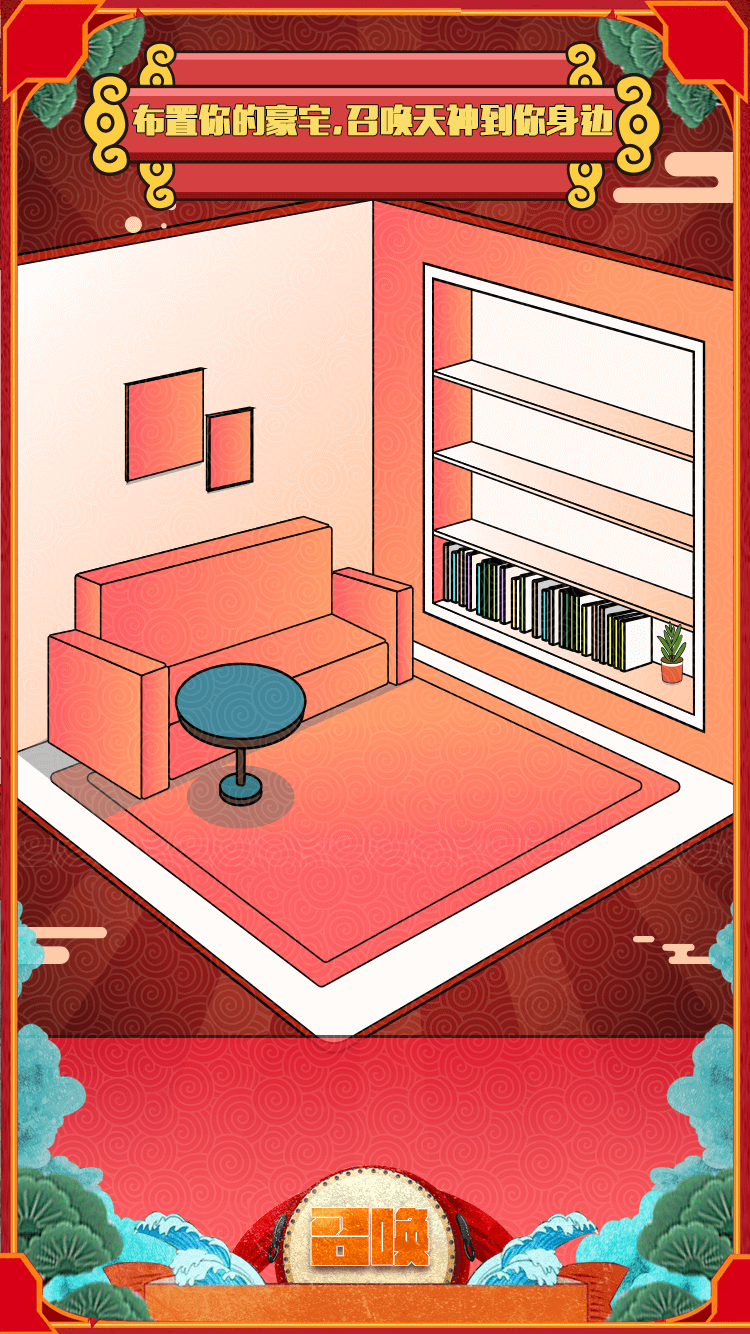
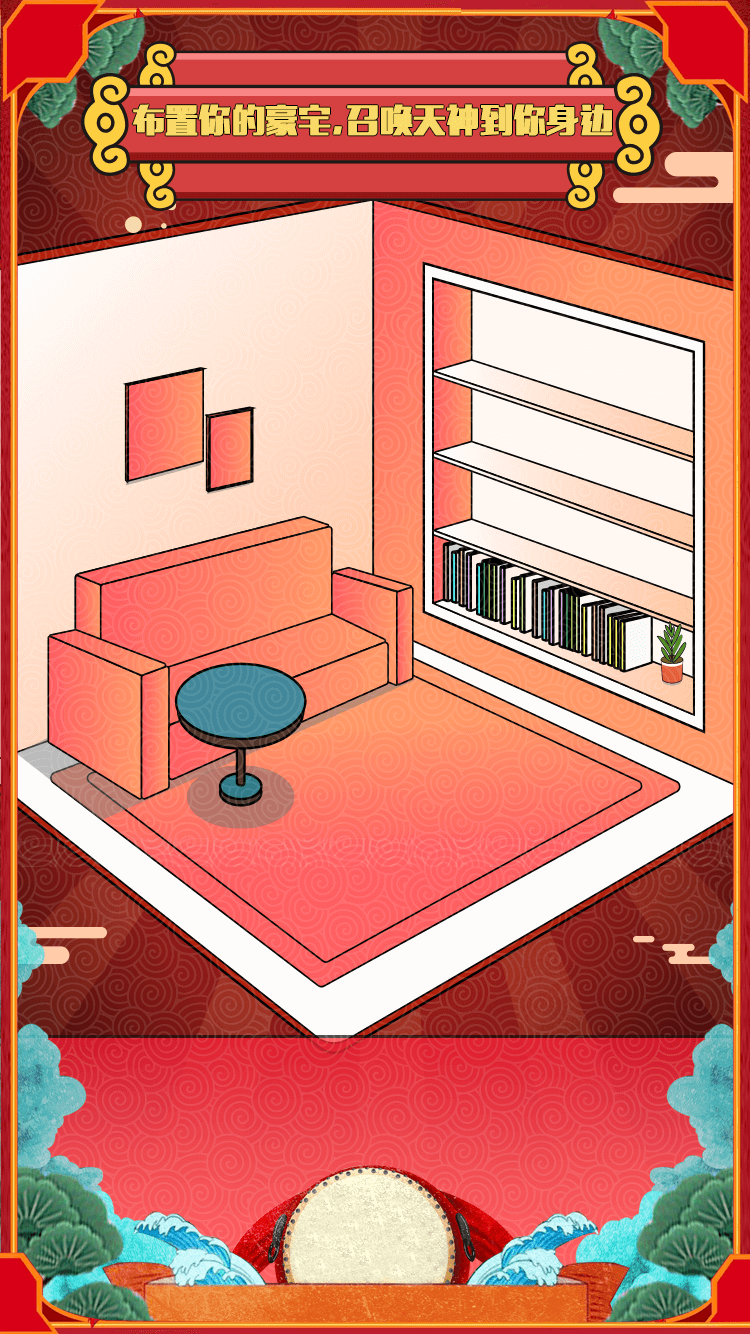
部分摆件定位和召唤按钮等

Changed region(s): [[0.368, 0.8913, 0.6133, 0.9835]]

diff --git a/src/views/Home/Home.jsx b/src/views/Home/Home.jsx
@@ -3,9 +3,11 @@ import { observer } from 'mobx-react'
 
 import './Home.less'
 import * as homebg from '@images/tigergame/home.png'
+import * as submitBtn from '@images/tigergame/submit.png'
 import { types, labels } from '@constants/constants'
 import HomeData from './HomeData'
 import { observable } from 'mobx'
+import Staff from './staff/staff'
 @observer
 class Home extends Component {
   @observable data = new HomeData()
@@ -32,16 +34,19 @@ class Home extends Component {
     const { setDataByKey, updateChoosenLabels, hideLabel } = this.data
     return (
       <div className="home">
+        {/* 背景图 */}
         <img className="bg-img" src={homebg.default} alt=""/>
-        { choosenLabels.air && <img className="fixed-air" src={this.findPic(choosenLabels.air)} alt=""/> }
+        {/* 选中摆件位置 */}
+        { choosenLabels.air && choosenLabels.air !== 'air5' && <img className="fixed-air" src={this.findPic(choosenLabels.air)} alt=""/> }
+        { choosenLabels.air && choosenLabels.air === 'air5' && <img className="fixed-air5" src={this.findPic(choosenLabels.air)} alt=""/> }
         { choosenLabels.pet && <img className="fixed-pet" src={this.findPic(choosenLabels.pet)} alt=""/> }
-        { choosenLabels.staff && <img className="fixed-staff" src={this.findPic(choosenLabels.staff)} alt=""/> }
-        { choosenLabels.plant && <img className="fixed-plant" src={this.findPic(choosenLabels.plant)} alt=""/> }
-        <img src="" alt=""/>
+        { choosenLabels.staff && <Staff url={this.findPic(choosenLabels.staff)}/> }
+        { choosenLabels.plant && choosenLabels.plant !== 'plant5' && <img className="fixed-plant" src={this.findPic(choosenLabels.plant)} alt=""/> }
+        { choosenLabels.plant && choosenLabels.plant === 'plant5' && <img className="fixed-plant5" src={this.findPic(choosenLabels.plant)} alt=""/> }
+        {/* 交互界面 */}
         <div className="main-wrapper">
           <div className="type-wrapper">
-            {
-              types.map(item => {
+            { types.map(item => {
                 return (
                   <div key={item.key} className={item.key === currentType ? 'type-box type-box-checked' : 'type-box'} onClick={() => setDataByKey('currentType', item.key)}>
                     <img className="type-icon" src={item.icon} alt=""/>
@@ -52,18 +57,19 @@ class Home extends Component {
             }
           </div>
           <div className="label-wrapper">
-            {
-              labels[currentType] && labels[currentType].map(item => {
+            { labels[currentType] && labels[currentType].map(item => {
                 return (
                   <div key={item.key} className='label-box' onClick={() => updateChoosenLabels(item.key)}>
                     { hideLabel !== item.key ? <img className="label-icon" src={item.icon} alt=""/> : null }
-                    { hideLabel !== item.key ? <div className="label-dec">{item.name}</div> : <div>选中</div> }
+                    { hideLabel !== item.key ? <div className="label-dec">{item.name}</div> : <div className="checkText">选中</div> }
                   </div>
                 )
               })
             }
           </div>
         </div>
+        {/* 召唤按钮 */}
+        <img className="submit-animation" src={submitBtn} alt=""/>
       </div>
     )
   }

diff --git a/src/views/Home/Home.less b/src/views/Home/Home.less
@@ -13,29 +13,43 @@
     position: absolute;
     top: 27vw;
     left: 9vw;
-    z-index: 999;
+    z-index: 10;
+    width: 30vw;
+  }
+  .fixed-air5 {
+    position: absolute;
+    top: 70vw;
+    left: 45vw;
+    z-index: 10;
     width: 30vw;
   }
   .fixed-pet {
     position: absolute;
     top: 86vw;
-    left: 68vw;
-    z-index: 999;
-    width: 30vw;
+    left: 64vw;
+    z-index: 10;
+    width: 27vw;
   }
   .fixed-staff {
     position: absolute;
     top: 41vw;
     left: 61vw;
-    z-index: 999;
+    z-index: 10;
     width: 10vw;
   }
   .fixed-plant {
     position: absolute;
     top: 82vw;
     left: -3vw;
-    z-index: 999;
+    z-index: 10;
     width: 30vw;
+  }
+  .fixed-plant5 {
+    position: absolute;
+    top: 83vw;
+    left: 24vw;
+    z-index: 10;
+    width: 15vw;
   }
   .main-wrapper {
     position: absolute;
@@ -94,6 +108,9 @@
           color: #fff;
           white-space: nowrap;
         }
+        .checkText {
+          color: #fff; 
+        }
       }
       .label-box-checked {
         background: rgba(255, 124, 52, 0.99);
@@ -101,8 +118,30 @@
       }
     }
   }
+  .submit-animation {
+    position: absolute;
+    top: 161vw;
+    left: 50vw;
+    width: 18vw;
+    margin-left: -10vw;
+    -webkit-animation-play-state: running;
+    animation-play-state: running;
+    -webkit-animation-name: submit;
+    animation-name: submit;
+    -webkit-animation-duration: 0.5s;
+    animation-duration: 0.5s;
+    -webkit-animation-iteration-count: infinite;
+    animation-iteration-count: infinite;
+  }
 }
-
+@keyframes submit {
+  0% {
+    transform: scale(1);
+  }
+  100% {
+    transform: scale(1.1);
+  }
+}
 // iPhone4 && iPhone4s
 @media only screen and (min-device-width: 320px) and (max-device-width: 480px) and (-webkit-min-device-pixel-ratio: 2) {
   .home {

diff --git a/src/untils/untils.js b/src/untils/untils.js
@@ -1,0 +1,28 @@
+const getNoRepeat3 = (len = 13) => {
+  let arrBase =  new Array(len)
+  for(let i = 0; i < len; i++) {
+    arrBase[i] = i
+  }
+  let res = []
+  arrBase.forEach(item1 => {
+    arrBase.forEach(item2 => {
+      arrBase.forEach(item3 => {
+        res.push([item1, item2, item3])
+      })
+    })
+  })
+  return res.filter(item => !(item[0] === item[1] && item[0] === item[2] && item[1] === item[2]))
+}
+
+const getRepeat3 = (len = 13) => {
+  let arrBase =  new Array(len)
+  for(let i = 0; i < len; i++) {
+    arrBase[i] = i
+  }
+  return arrBase.map(item => [item, item, item])
+}
+
+export {
+  getNoRepeat3,
+  getRepeat3
+}

diff --git a/src/views/Home/staff/staff.less b/src/views/Home/staff/staff.less
@@ -1,0 +1,22 @@
+.staffFixed-loop(@n, @i:0) when (@i <= @n) {
+  .staffFixed-@{i} when (@i < 12) {
+    top: 63vw + (@i - 8) * 3vw;
+    left: 60vw + (@i - 8) * 8vw;
+  }
+  .staffFixed-@{i} when (@i < 8) {
+    top: 52vw + (@i - 4) * 3vw;
+    left: 60vw + (@i - 4) * 8vw;
+  }
+  .staffFixed-@{i} when (@i < 4) {
+    top: 41vw + @i * 3vw;
+    left: 60vw + @i * 8vw;
+  }
+  .staffFixed-loop(@n, @i + 1);
+}
+.staff-all {
+  .staffFixed {
+    position: absolute;
+    width: 10vw;
+  }
+  .staffFixed-loop(11);
+}

diff --git a/src/views/Home/staff/staff.jsx b/src/views/Home/staff/staff.jsx
@@ -1,0 +1,12 @@
+import React from 'react'
+
+import './staff.less'
+
+export default function Staff(props) {
+  const arr = [0, 0, 0, 0, 0, 0, 0, 0, 0, 0, 0, 0] // 12个元素的定长数组
+  return (
+    <div className="staff-all">
+      { arr.map((item, index) => <img key={index}   className={`staffFixed staffFixed-${index}`} src={props.url} alt=''/>) }
+    </div>
+  )
+}

diff --git a/src/router/root.js b/src/router/root.js
@@ -10,8 +10,8 @@ class Main extends Component {
   render() {
     return (
       <Switch>
-        <Route path="/home" component={Home}/>
         <Route path="/auth" component={Auth}/>
+        <Route path="/home" component={Home}/>
         <Route component={() => <DefaultPage text="页面找不到啦~"/>}/>
       </Switch>
     )
